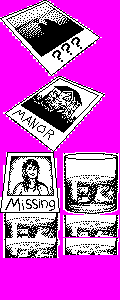
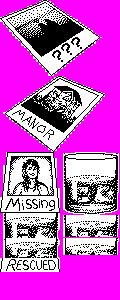
In the end credits, if the player actually saved the hostage, the final photo shows "rescued" instead of "missing".

Changed region(s): [[0.0, 0.84, 0.5, 0.93]]

diff --git a/code/outro_main.c b/code/outro_main.c
@@ -46,6 +46,9 @@ void HandleHighScore()
 	// Load the highscores from the disk
 	LoadFileAt(LOADER_HIGH_SCORES,gHighScores);
 
+#if 0  // Just to test the different ending conditions
+    gGameOverCondition = e_SCORE_SOLVED_THE_CASE;
+#endif
     // Show a congratulation/failure message related to their actual ending condition
     gPrintWidth = 40;
     gPrintTerminator=0;    
@@ -240,7 +243,11 @@ void main()
     // =============================== About the game ===============================
     DisplayText(gTextGameDescription,50*12);
     
-    AddSprite(10,61,20,20*152,48*40+16);        // Add the third photo
+    AddSprite(10,61,20,20*152,48*40+16);        // Add the third photo (Missing girl)
+    if (gGameOverCondition == e_SCORE_SOLVED_THE_CASE)
+    {
+        AddSprite(10,14,20,20*258,(45+48)*40+16);        // Patch the image with "Rescued" if the player actually won
+    }
     AddSprite(10,22,20,20*215+10,88*40+30);     // Lower the glass content even more
     BlitBufferToHiresWindow();
 
